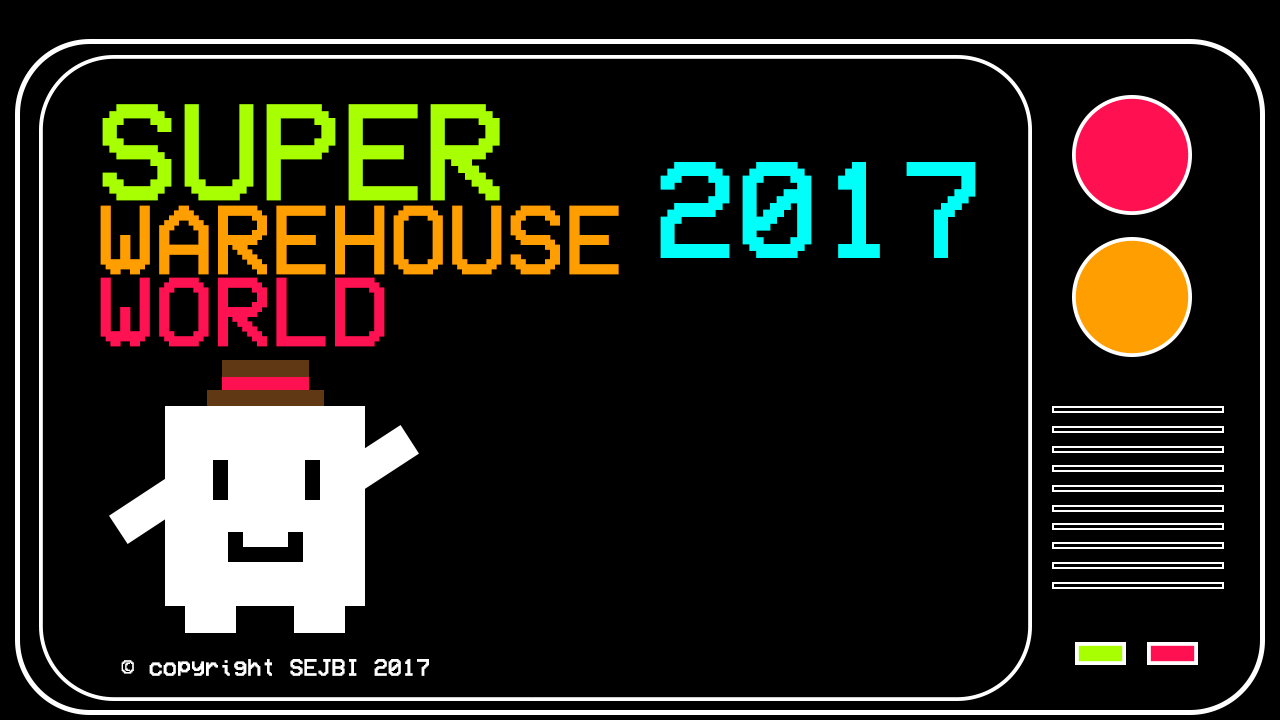
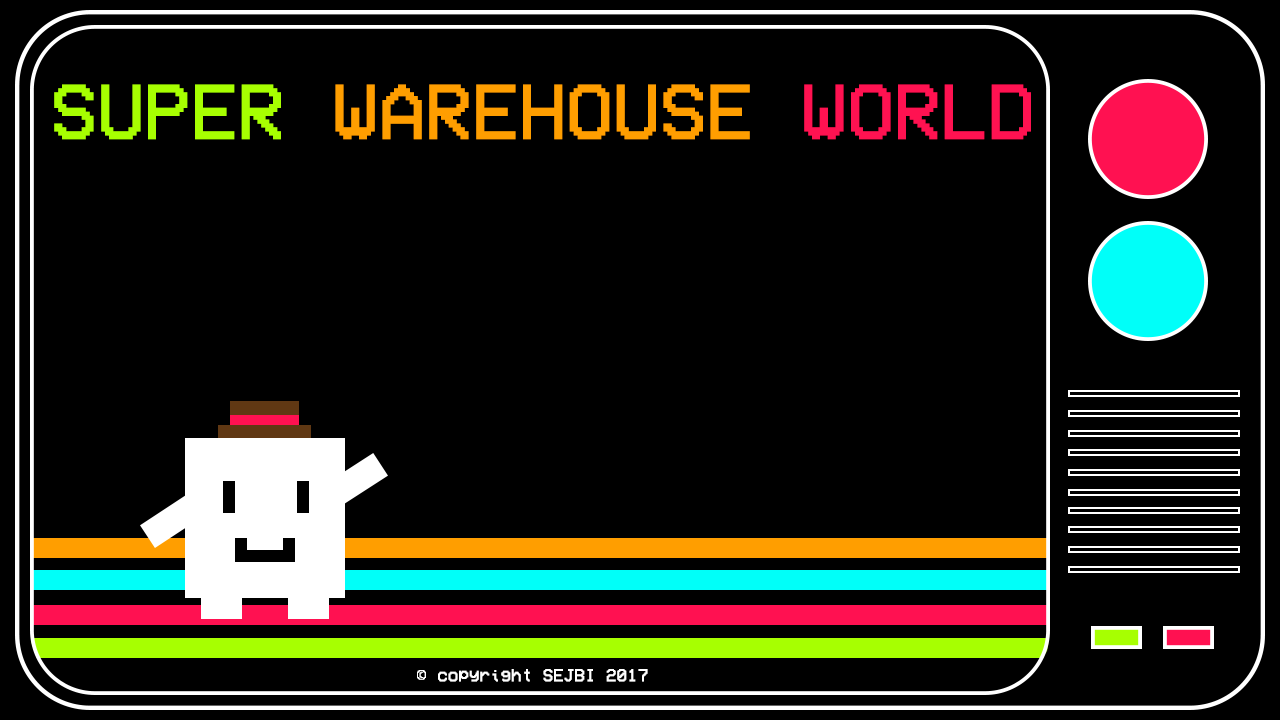
Fixed menu screen

Changed region(s): [[0.0, 0.0, 1.0, 1.0], [0.7188, 0.275, 0.75, 0.3667], [0.9688, 0.9167, 1.0, 0.9472]]

diff --git a/src/MenuStateTrial.java b/src/MenuStateTrial.java
@@ -1,15 +1,27 @@
 import java.awt.Color;
 import java.awt.FlowLayout;
 import java.awt.Font;
+import java.awt.Graphics;
 import java.awt.Graphics2D;
+import java.awt.GridBagConstraints;
+import java.awt.GridBagLayout;
+import java.awt.Image;
+import java.awt.Insets;
 import java.awt.event.ActionEvent;
 import java.awt.event.ActionListener;
 
+import javax.imageio.ImageIO;
+import javax.swing.ImageIcon;
 import javax.swing.JButton;
 import javax.swing.JFrame;
 import javax.swing.JPanel;
 
 public class MenuStateTrial extends JPanel{
+
+    private Image background;
+    private Image playbutton;
+    private Image creditsbutton;
+    private Image highscoresbutton;
 
 	private JButton play;
 	private JButton credits;
@@ -18,10 +30,40 @@ public class MenuStateTrial extends JPanel{
 	
 	public MenuStateTrial() {
 		System.out.println("in menu screen");
-		play = new JButton("Play");
-		credits = new JButton("Credits");
-		highScore = new JButton("High Score");
 		
+		// Get the image file for the background and buttons
+		try {
+			background = ImageIO.read(getClass().getResourceAsStream("menu.png"));
+			playbutton = ImageIO.read(getClass().getResourceAsStream("playbutton.png"));
+			creditsbutton = ImageIO.read(getClass().getResourceAsStream("creditsbutton.png"));
+			highscoresbutton = ImageIO.read(getClass().getResourceAsStream("highscoresbutton.png"));
+		}
+		catch(Exception e) {
+			e.printStackTrace();
+		}		
+		
+		// Initialize JButtons
+		// Give them names, and dimensions. Also
+		// add tool tips on mouse over to assist the user.
+		play = new JButton();
+		play.setIcon(new ImageIcon(playbutton));
+		play.setToolTipText("Click this to begin the game!");
+		play.setBorderPainted(false);
+		
+		credits = new JButton();
+		credits.setIcon(new ImageIcon(creditsbutton));
+		credits.setToolTipText("Click this to see who made the game!");
+		credits.setBorderPainted(false);
+
+		highScore = new JButton();
+		highScore.setIcon(new ImageIcon(highscoresbutton));
+		highScore.setToolTipText("Click this to everyone's highest scores!");
+		highScore.setBorderPainted(false);
+
+		// Play button action listener
+		// When play button is clicked, call the game master
+		// to change the screen. This swaps out the JPanel
+		// to the JPanel that holds the game. 
 		play.addActionListener(new ActionListener(){
 			public void actionPerformed (ActionEvent e){
 				System.out.println("change thing");
@@ -29,21 +71,55 @@ public class MenuStateTrial extends JPanel{
 			}
 		});
 		
+		// Credits button action listener
+		// When the credits button is clicked, call the
+		// game master to change to credits screen.
 		credits.addActionListener(new ActionListener(){
 			public void actionPerformed (ActionEvent e){
 				System.out.println("change screen");
 			}
 		});
 		
-		add(play);
-		add(credits);
-		add(highScore);
+		// Set the layout of this JPanel
+		// We can use one of the preset layouts from
+		// JPanel's API to arrange the layout and 
+		// positions of where components appear in this
+		// JPanel. This is a better alternative opposed
+		// to manually hard coding pixel perfect coordinates
+		// where each button should appear. 
+		setLayout(new GridBagLayout());
+		GridBagConstraints c = new GridBagConstraints();
+
+		// Add the buttons to the JPanel
+		// gridx and gridy are part of JPanel's layout
+		// API, and lets us organise the location of the buttons.
+		c.gridx = 2;
+		c.gridy = 1;
+		add(play,c);
+		c.gridy = 2;
+		add(credits,c);
+		c.gridy = 3;
+		add(highScore,c);
+		
+		// Set the JPanels attributes and revalidate.
 		revalidate();
-		setBackground(Color.BLUE);
 		this.setFocusable(true);
 	    this.requestFocusInWindow();
 		
 	}
+	
+	public void paintComponent(Graphics g) {
+		// Access the JPanel super class's
+		// function for painting.
+		super.paintComponent(g);
+
+	    // Draw the background for this JPanel
+	    g.setColor(Color.BLACK);
+        g.drawImage(background, 0, 0, null);
+        	     
+	}
+	
+	
 /*
 	@Override
 	public void init() {

diff --git a/src/GameMaster.java b/src/GameMaster.java
@@ -2,57 +2,69 @@ import javax.swing.JFrame;
 import javax.swing.JPanel;
 import javax.swing.SwingUtilities;
 
-import java.awt.CardLayout;
-import java.awt.Color;
-import java.awt.Graphics;
-import java.awt.Graphics2D;
-import java.awt.event.KeyEvent;
-import java.awt.event.KeyListener;
-import java.awt.image.BufferedImage; 
-
 public class GameMaster{
-	public static final int WIDTH = 1280;
-	public static final int HEIGHT = 720;
-	public static final int FPS = 60;
-	public static final int FRAME_DELTA = 1000/FPS;
+    
+    // The window and game dimensions
+    public static final int WIDTH = 1280;
+    public static final int HEIGHT = 720;
+    
+    // Set the frames per second
+    public static final int FPS = 60;
+    public static final int FRAME_DELTA = 1000/FPS;
 
-	// Here for debugging reasons only
-	public static float adj1Chance = 0.40f;
-	public static float adj2Chance = 0.20f;
-	public static float adj3Chance = 0.50f;
-	public static float adj4Chance = 0.60f;
-	
-	private static JFrame frame;
-	private static JPanel currentPanel;
-	
+    // Here for debugging reasons only
+    public static float adj1Chance = 0.40f;
+    public static float adj2Chance = 0.20f;
+    public static float adj3Chance = 0.50f;
+    public static float adj4Chance = 0.60f;
 
+    // JFrame which holds all of the game's
+    // JPanels and their contents. 
+    private static JFrame frame;
+    
     public static void main(String[] args) {
-    	SwingUtilities.invokeLater(new Runnable() {
+        SwingUtilities.invokeLater(new Runnable() {
             @Override
-            public void run() {                                           
-            	initScreen();
-            	frame.getContentPane().add(new BootScreen());
-            	
+            public void run() { 
+                // Initialize the JFrames attributes
+                initScreen();
+                // Add a boot up screen/JPanel to this
+                // JFrame
+                frame.getContentPane().add(new BootScreen());
+                
             }
         });  
     }
     
     private static void initScreen(){
-    	frame = new JFrame("Game");
+        
+        // Initialize the settings and attributes
+        // for our JFrame. This class, GameMaster
+        // acts as the JFrame. We initialize its
+        // size, and its visibility. 
+        frame = new JFrame("Game");
         frame.setDefaultCloseOperation(JFrame.EXIT_ON_CLOSE);
         frame.setSize(WIDTH, HEIGHT);
         frame.setLocationRelativeTo(null);
+        frame.setResizable(false);
         frame.setVisible(true);
+        frame.setFocusable(true);
         /*panel = new JPanel(new CardLayout());
         frame.add(panel);*/
     }
     
     public static void changeScreens(JPanel newScreen) {
-    	frame.getContentPane().removeAll();
-    	frame.getContentPane().add( newScreen);
-		frame.repaint();
-		frame.revalidate();
-		
+        // This function is used to change between
+        // screens. For our implementation, each
+        // screen is stored as a JPanel. This
+        // function removes all the JPanels in the
+        // main JFrame, adds a new screen/JPanel 
+        // to it, and then repaints and revalidates. 
+        frame.getContentPane().removeAll();
+        frame.getContentPane().add(newScreen);
+        frame.repaint();
+        frame.revalidate();
+        
     }
     
     
@@ -62,4 +74,4 @@ public class GameMaster{
     
     
     
-	
+    
